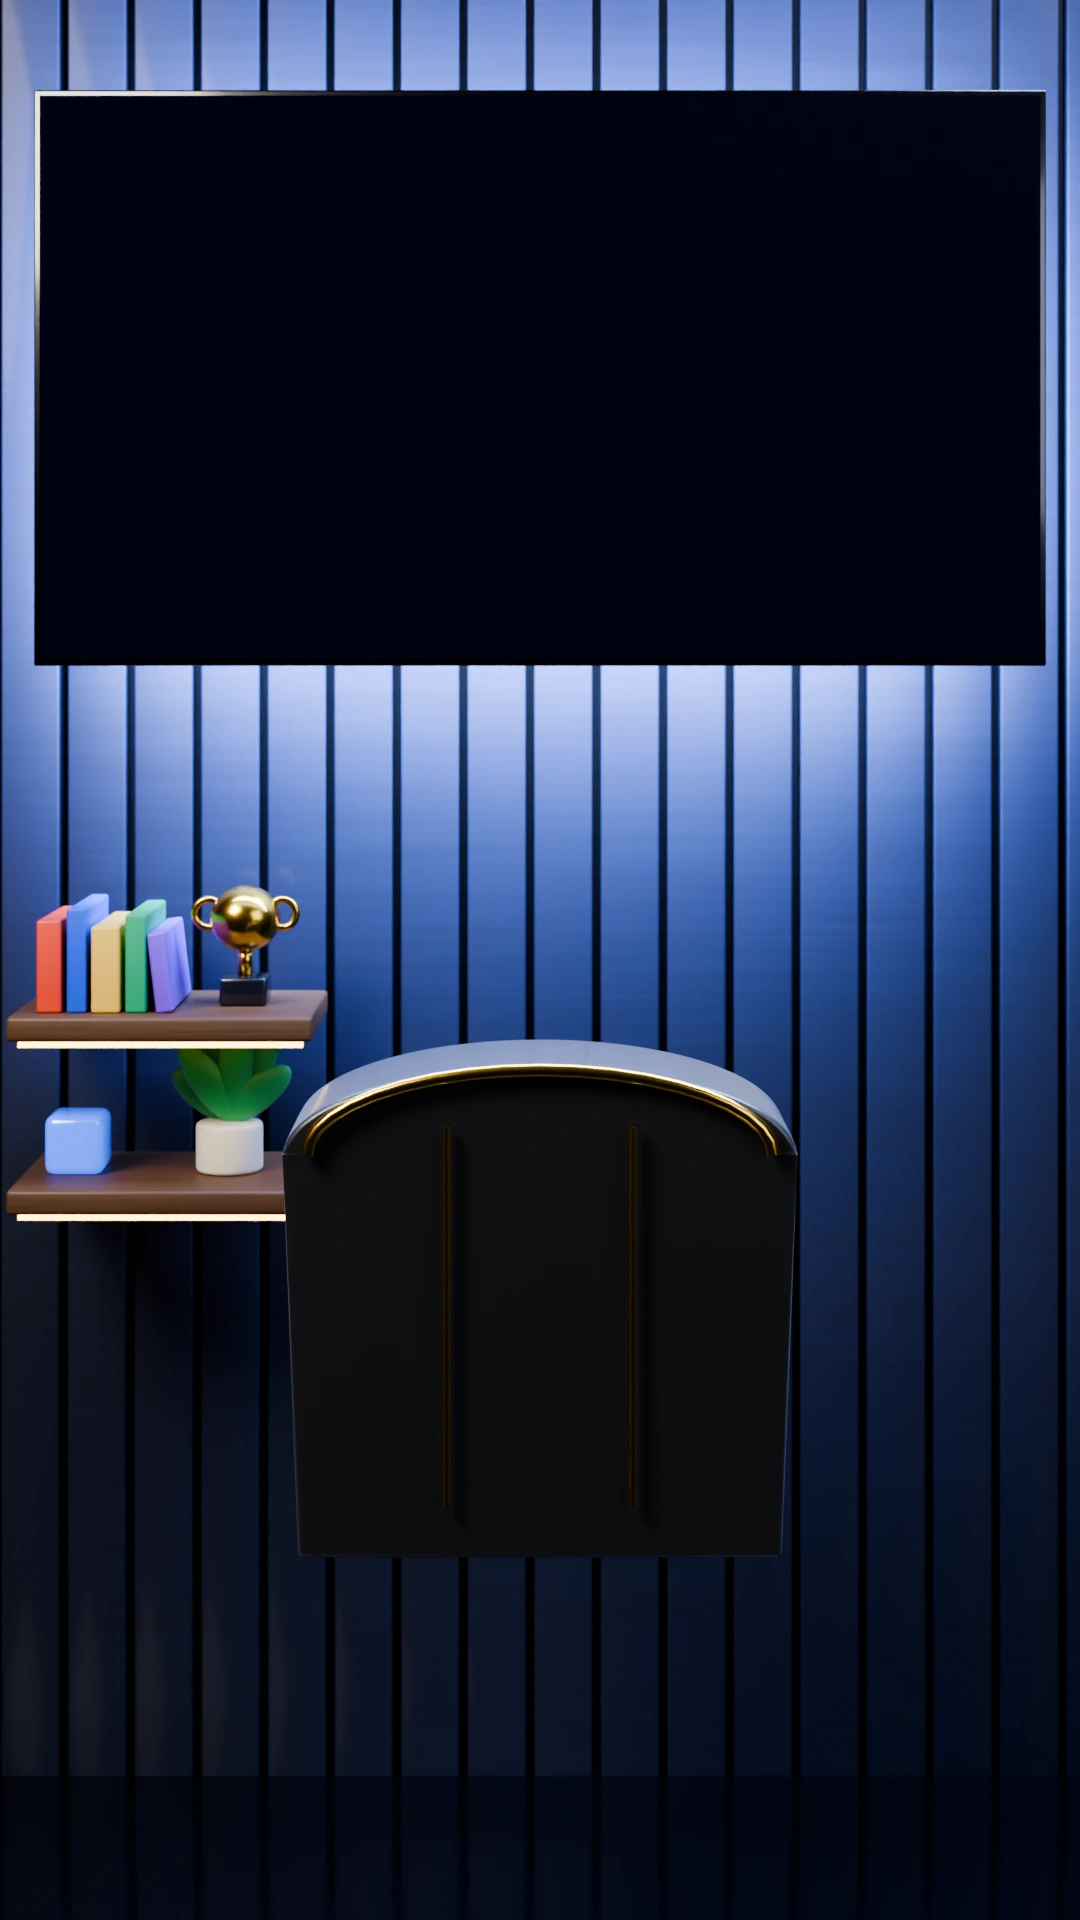
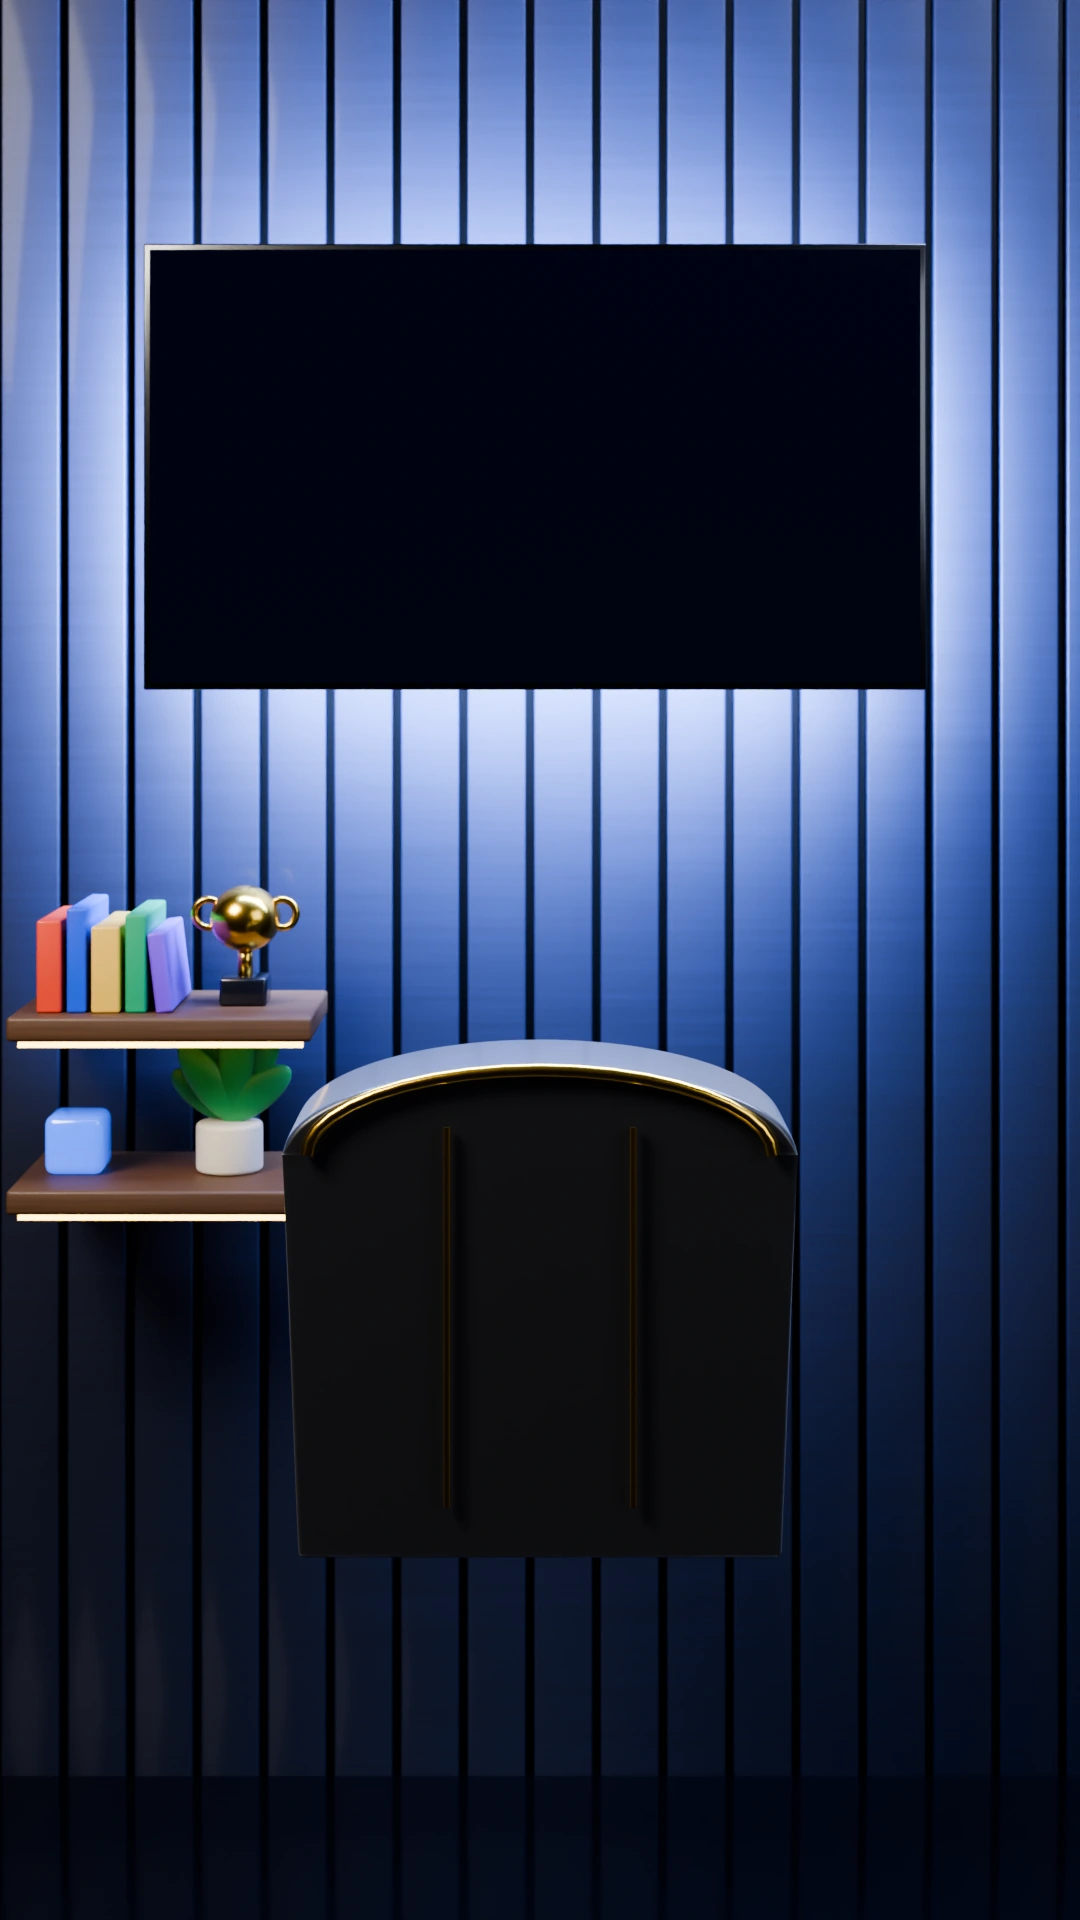
Shorts: blocks below the top crop and above the captions, studio TV inside the safe area, captions 2 lines clear of Goli; White Model for places; free re-cut of an edit-engine video from its saved plan
Claude-Session: https://claude.ai/code/session_012YkxsZbhC55B2CzzNBMQAJ

Changed region(s): [[0.0, 0.0, 1.0, 0.5625]]

diff --git a/src/golide_engine/edit/compose.py b/src/golide_engine/edit/compose.py
@@ -20,7 +20,7 @@ from typing import Any
 
 from PIL import Image
 
-from . import studio
+from . import layout, studio
 from .mascot import logo_mark
 
 ROOT = Path(__file__).resolve().parents[3]
@@ -142,6 +142,34 @@ def _shift(tween: str, t0: float) -> str:
     return tween if not m else tween[:m.start()] + f",{t0 + float(m.group(1)):.3f});"
 
 
+SHORT_CAP_CHARS = 30      # two lines at most at 60 px inside the phone's crop
+
+
+def short_lines(caps: list[dict]) -> list[dict]:
+    """owner 2026-11-25 ("captions collided with Goli"): a Short's caption band is two lines high, Goli stands under it.
+    A longer line is cut at its words into lines that follow each other on the spoken timings."""
+    out = []
+    for c in caps:
+        words = c.get("words") or []
+        if len(" ".join(w["text"] for w in words)) <= SHORT_CAP_CHARS:
+            out.append(c)
+            continue
+        keys, chunk, first = set(c.get("keys", [])), [], 0
+        pieces = []
+        for j, w in enumerate(words):
+            if chunk and len(" ".join(x["text"] for x in chunk + [w])) > SHORT_CAP_CHARS:
+                pieces.append((first, chunk))
+                chunk, first = [], j
+            chunk.append(w)
+        pieces.append((first, chunk))
+        for k, (first, chunk) in enumerate(pieces):
+            start = float(c["start"]) if k == 0 else float(chunk[0]["at"])
+            end = float(pieces[k + 1][1][0]["at"]) - 0.01 if k + 1 < len(pieces) else float(c["end"])
+            out.append(dict(c, start=start, end=max(end, start + 0.2), words=chunk,
+                            keys=[j - first for j in keys if first <= j < first + len(chunk)]))
+    return out
+
+
 class Composer:
     """Collects scene markup and one GSAP timeline."""
 
@@ -245,8 +273,10 @@ class Composer:
         elif self.zone and self.fmt == "short":
             # owner 2026-11-25: a Short is framed like the long video: the proof keeps to the top, above the captions,
             # and Goli stands under it (the long video's right quarter becomes the Short's bottom third)
-            inner = (f'<div class="zone" style="position:absolute;inset:0;transform:scale({0.9 * getattr(self, "_boost", 1.0):.3f});'
-                     f'transform-origin:50% 4%">{inner}</div>')
+            # owner 2026-11-25 (first Short with it): not pushed up to the top, where the phone hides it: the proof
+            # sits between the phone's top crop (230 px) and the captions (1062 px), inside its side crops
+            inner = (f'<div class="zone" style="position:absolute;inset:0;transform:translateY(120px) '
+                     f'scale({0.84 * getattr(self, "_boost", 1.0):.3f});transform-origin:50% 0">{inner}</div>')
         elif abs(getattr(self, "_boost", 1.0) - 1.0) > 0.005:
             # 2026-11-13 (point 5): a scene measured too small is enlarged around its middle
             inner = (f'<div style="position:absolute;inset:0;transform:scale({self._boost:.3f});transform-origin:50% 50%">'
@@ -1351,7 +1381,8 @@ class Composer:
         if place == "side":   # standing beside the block; on a Short his feet stay above YouTube's caption area
             # long: knees at the frame's bottom edge; Short (owner 2026-11-25): under the proof and the captions, his
             # feet low behind YouTube's own buttons
-            y = (1840 if self.fmt == "short" else self.h + 150) - size
+            # owner 2026-11-25 ("captions collided with Goli"): his head starts under the caption band
+            y = (max(1840, layout.SHORT_CAP_BOTTOM + 35 + size) if self.fmt == "short" else self.h + 150) - size
         if place == "beside":     # long: feet just under the frame's edge; Short: feet above YouTube's caption area
             y = (1700 if self.fmt == "short" else self.h + 30) - size
         if place in ("studio", "lower"):      # seated: desk top at his waist
@@ -1627,6 +1658,8 @@ class Composer:
         studio_top = 1592 if self.fmt == "short" else self.h - 150
         size = 60 if self.fmt == "short" else 50
         cap_list = edit.get("captions") or []
+        if self.fmt == "short":
+            cap_list[:] = short_lines(cap_list)
         cap_list.sort(key=lambda c: float(c["start"]))
         for i, c in enumerate(cap_list):         # a line leaves before the next one arrives: never two at once
             if i + 1 < len(cap_list):

diff --git a/src/golide_engine/edit/layout.py b/src/golide_engine/edit/layout.py
@@ -163,13 +163,19 @@ def legibility(edit: dict[str, Any], comp_builder, comp: Path, size: tuple[int, 
 # sides (about 9% each side on a 19.5:9 screen), the like/comment column covers the right, the Shorts bar the top.
 # Every scene's content stays inside this box, measured through the whole scene (after it lands, before it leaves).
 SAFE = {"short": (130, 230, 1080 - 160, 1920 - 120), "long": (36, 30, 1920 - 36, 1080 - 30)}
+# owner 2026-11-25 ("captions collided with Goli"): a Short with Goli under the proof has three fixed floors: the proof
+# ends above the captions, the captions own their band, Goli's head starts under it. Nothing is pushed into the next.
+SHORT_CAP_TOP, SHORT_CAP_BOTTOM, SHORT_ZONE_Y = 1062, 1205, 120
 
 
-def safe_factor(box: list[float], fmt: str, size: tuple[int, int]) -> float:
-    """How much a box (x0, y0, x1, y1) must shrink about the scene's scale origin to sit inside the safe area."""
+def safe_factor(box: list[float], fmt: str, size: tuple[int, int], zone: bool = False) -> float:
+    """How much a box (x0, y0, x1, y1) must shrink about the scene's scale origin to sit inside the safe area.
+    zone: a Short block with Goli under it, grown from its top; it must end above the captions."""
     w, h = size
     l, t, r, b = SAFE[fmt] if fmt in SAFE else (30, 30, w - 30, h - 30)
     ox, oy = (0.02 * w, h / 2) if fmt == "long" else (w / 2, h / 2)
+    if zone and fmt == "short":
+        b, oy = SHORT_CAP_TOP - 22, SHORT_ZONE_Y
     x0, y0, x1, y1 = box
     f = 1.0
     if x0 < l and ox - x0 > 1:
@@ -201,9 +207,10 @@ def keep_inside(edit: dict[str, Any], comp_builder, comp: Path, size: tuple[int,
             a, d = float(sc["start"]), float(sc["duration"])
             times = sorted({round(a + min(0.45, d * 0.4), 3), round(a + d * 0.6, 3), round(a + max(d * 0.6, d - 0.35), 3)})
             worst = 1.0
+            zone = bool(sc["data"].get("goli_zone"))
             for t in times:
                 for v in (page.evaluate(TEXT_PROBE, t) or {}).values():
-                    worst = min(worst, safe_factor(v["box"], fmt, size))
+                    worst = min(worst, safe_factor(v["box"], fmt, size, zone))
             if worst < 0.99:
                 old = float(sc["data"].get("boost") or 1.0)
                 sc["data"]["boost"] = round(old * worst * 0.98, 3)
@@ -282,7 +289,9 @@ def _times(edit: dict[str, Any]) -> list[float]:
 def bands(fmt: str, h: int) -> list[int]:
     """Caption positions to try, nearest to the usual place first."""
     if fmt == "short":
-        return [1062, 1150, 980, 1592, 900, 1250, 820, 1680]     # 1680 sits under YouTube's title: last
+        # owner 2026-11-25: a caption never moves down into Goli (he stands under the band); it goes up, or the studio's
+        # own low band when Goli sits at the desk (1592 is free there)
+        return [SHORT_CAP_TOP, 1000, 940, 880, 820, 1592]
     return [h - 150, h - 250, h - 360, 120, 230]
 
 

diff --git a/src/golide_engine/edit/editor.py b/src/golide_engine/edit/editor.py
@@ -205,11 +205,13 @@ Scene types (fill only the fields the type uses; null or [] for the rest):
   through a system): 3-5 layers top to bottom, each with a simple diagram, a name and a short line, and a pulse
   showing the order things happen. white = how something FLOWS THROUGH A SYSTEM (energy, water, money, data,
   people): a white architect's model of the system, one accent travelling its path in order, a numbered label at each
-  stop. circuit = a JOURNEY or PIPELINE through stages (a prompt through a chip, a payment through a network): a
+  stop. A PLACE where things are made, stored or run (a factory, a chip fab, a data centre, a power plant, a port, a
+  campus, a city: owner 2026-11-25, the Terafab beat) is a white model of that place with what flows in and out, never
+  a blueprint. circuit = a JOURNEY or PIPELINE through stages (a prompt through a chip, a payment through a network): a
   circuit board at night, each stage a landmark with its printed name, a pulse carrying the order. glass = MIXTURES,
   RATIOS AND AMOUNTS (a split of money or time, a blend, a recipe, chemistry): real glassware, amounts as levels
-  against the marks, one action per beat. blueprint = a PLAN, SET-UP or HOW SOMETHING IS MADE: a flat drawing that
-  rises into the real object, with dimensions and 2-3 numbered pointers. recipe_brief = what the scene must show, from the words and research only (max 60 words). xray: the
+  against the marks, one action per beat. blueprint = a PLAN, SET-UP or HOW ONE THING IS MADE (a machine, a
+  device, a part, one building's structure): a flat drawing that rises into the real object, with dimensions and 2-3 numbered pointers. recipe_brief = what the scene must show, from the words and research only (max 60 words). xray: the
   object and its real look, the 1-3 inner parts to light in order and what each does in 2-5 words, the flow, and the
   brand if there is one (its colour becomes the accent). layers: each layer top to bottom with its name (1-2 words),
   a 2-4 word line and what its little diagram shows, and what the pulse carries (a request down, the answer up).

diff --git a/tests/test_rebuild.py b/tests/test_rebuild.py
@@ -88,6 +88,22 @@ class RebuildTests(unittest.TestCase):
         self.assertEqual(self.stages(), {"script", "owner-voice"})
         self.assertTrue((self.root / "productions" / ID / "narration-owner.wav").exists())
 
+    def test_an_edit_engine_video_is_cut_again_from_its_saved_plan_for_free(self):
+        """Owner 2026-11-25: "we already have the storyboard": the paid edit plan is kept, everything after it
+        (render, doctor, mix, check, package) is redone with today's code."""
+        work = self.root / "productions" / ID
+        (work / "edit").mkdir()
+        (work / "edit" / "edit-plan-raw-v2.json").write_text('{"plan": [], "scenes": []}')
+        (work / "edit" / "doctor.json").write_text("{}")
+        for stage in ("edit-plan-v2", "render-edit-v1", "doctor-v1", "mix-edit-v3"):
+            self.db.execute("INSERT INTO stage_runs(production_id, stage, attempt, status, started_at) "
+                            "VALUES (?, ?, 1, 'completed', '2026-11-25')", (ID, stage))
+        redo = Rebuild(self.root, self.db, ID).prepare()
+        self.assertEqual(redo, ["render-edit-v1", "doctor-v1", "mix-edit-v3", "qa", "release"])
+        self.assertIn("edit-plan-v2", self.stages())            # the storyboard is not paid for again
+        self.assertNotIn("render-edit-v1", self.stages())
+        self.assertFalse((work / "edit" / "doctor.json").exists())
+
     def test_new_art_redraws_the_thumbnail_retitles_and_funds_the_pictures(self):
         # 22 Oct: the Roadster video is redrawn with real-product art under the owner's title.
         work = self.root / "productions" / ID

diff --git a/src/golide_engine/orchestration/rebuild.py b/src/golide_engine/orchestration/rebuild.py
@@ -28,6 +28,9 @@ from ..engine.content_rules import script_text
 from ..storage.database import Database
 
 REDO_ALWAYS = ("render-vector-v1", "qa", "release")
+# owner 2026-11-25 ("we already have the storyboard, re-render it"): an edit-engine video keeps its paid edit plan
+# (edit-plan-raw-v2.json) and is cut again with today's code: render, doctor, mix, check and package only
+REDO_EDIT = ("render-edit-v1", "doctor-v1", "mix-edit-v3", "qa", "release")
 REDO_ART = ("visual-plan-v1", "illustrations-v1")
 REDO_VOICE = ("owner-voice", "captions-authoritative-v3")
 PREVIEW_HOURS = 48
@@ -99,10 +102,13 @@ class Rebuild:
             if _words(script_text(plan)) != _words(script):
                 raise RebuildError("the new scene plan does not have exactly the recorded words")
             plan_path.write_text(json.dumps(plan, indent=2) + "\n", encoding="utf-8")
-        if not plan_path.exists():
-            raise RebuildError("no scene plan; only videos made by the vector renderer can be rebuilt")
+        edit_plan = self.work / "edit" / "edit-plan-raw-v2.json"
+        if not plan_path.exists() and not edit_plan.exists():
+            raise RebuildError("no scene plan or edit plan saved; this video cannot be rebuilt without paying again")
 
-        redo = list(REDO_ALWAYS)
+        redo = list(REDO_EDIT if edit_plan.exists() else REDO_ALWAYS)
+        for name in ("doctor.json",):
+            (self.work / "edit" / name).unlink(missing_ok=True)
         if new_art:
             redo += list(REDO_ART)
             (self.work / "visual-plan.json").unlink(missing_ok=True)

diff --git a/tests/test_edit_editor.py b/tests/test_edit_editor.py
@@ -119,3 +119,18 @@ def test_close_marked_as_intro_becomes_close():
            "lines": [{"text": "a", "chapter": 0}, {"text": "b", "chapter": 1}, {"text": "c", "chapter": 0}]}
     timed = [SimpleNamespace(index=i, start=float(i * 20), section="proof") for i in range(3)]
     assert [m.title for m in chapter_marks(bad, timed)] == ["Intro", "One", "Close"]
+
+
+def test_a_short_caption_never_runs_past_two_lines_into_goli():
+    # owner 2026-11-25: "captions collided with Goli"
+    from golide_engine.edit.compose import SHORT_CAP_CHARS, short_lines
+    words = "Terafab builds the chips that run every model you use".split()
+    cap = {"start": 1.0, "end": 3.0, "keys": [0, 4], "words": [{"text": w, "at": 1.0 + k * 0.2} for k, w in enumerate(words)]}
+    out = short_lines([cap])
+    assert len(out) > 1
+    assert all(len(" ".join(w["text"] for w in c["words"])) <= SHORT_CAP_CHARS for c in out)
+    assert [w["text"] for c in out for w in c["words"]] == words
+    assert out[0]["start"] == 1.0 and out[-1]["end"] == 3.0
+    assert all(a["end"] < b["start"] for a, b in zip(out, out[1:]))
+    lit = [c["words"][k]["text"] for c in out for k in c["keys"]]
+    assert lit == ["Terafab", "that"]

diff --git a/src/golide_engine/goli3d/studio_model.py b/src/golide_engine/goli3d/studio_model.py
@@ -220,7 +220,8 @@ area("uplight", ((f0.x + f1.x) / 2, y_wall - 0.5, f0.z - 0.1), 900 if FMT != "lo
 # the video wall: a big flat TV with a slim bezel; the screen is left plain (content is laid on in the video)
 # owner 2026-11-25: a boardroom smart screen, wide and big enough that a page reads on it (the old one was a 32-inch
 # TV), standing off the wall on its mount with a neon glow behind it so it never looks stuck to the wall
-TV_PX = {"long": (880, 64, 1888, 631), "short": (40, 96, 1040, 659)}
+# Short (owner 2026-11-25): landscape still, but inside the phone's crops (130 px left, 160 right, 230 top), not to the edges
+TV_PX = {"long": (880, 64, 1888, 631), "short": (150, 250, 920, 683)}
 screen_px = None
 if LAY["wall"]:
   x0, y0, x1, y1 = TV_PX[FMT]

diff --git a/CLAUDE.md b/CLAUDE.md
@@ -130,6 +130,9 @@ best unmodelled video of the last 45 days, no numbers bar. The channel's style i
 - Music: Discipline Finishes under every Short until 2026-12-13 (`short_signature`), 3D Shorts included, one steady
   bed, no dips.
 - Frame: content stays inside the phone crop (130 px left, 160 right, 230 top) at every moment (`layout.keep_inside`).
+- Floors (owner 2026-11-25, "captions collided with Goli"): the proof ends above the captions (1040), captions own
+  1062-1205 (2 lines at most, a longer line split on its word timings, `compose.short_lines`), Goli's head starts under
+  them; a caption only moves up, never down into Goli (`layout.bands`).
 - Pace: no picture under 1.0 s (Short; 3D Shorts 0.7 s, owner 2026-11-24) / 1.5 s (long); 1 metaphor per Short, 3 per long; a strong transition
   (zoom, flash, iris, whip) at most once in three cuts, the rest glide or cut.
 
